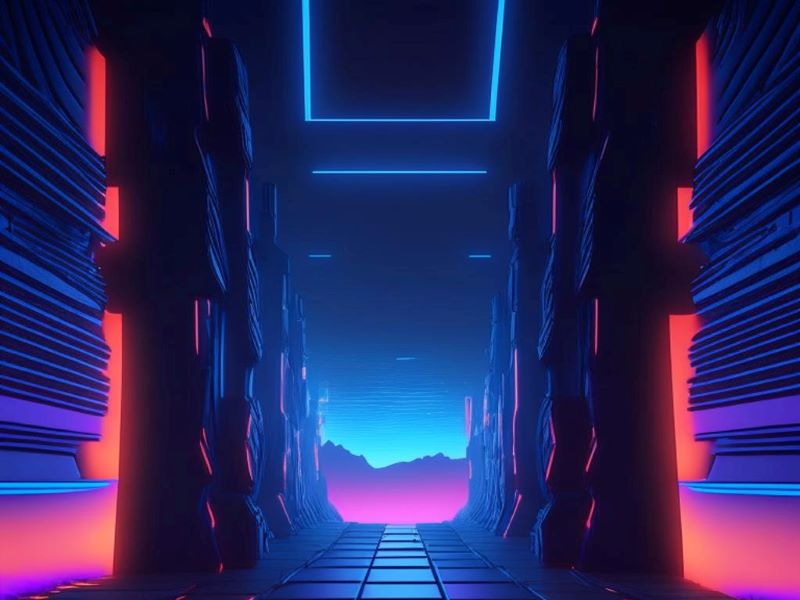
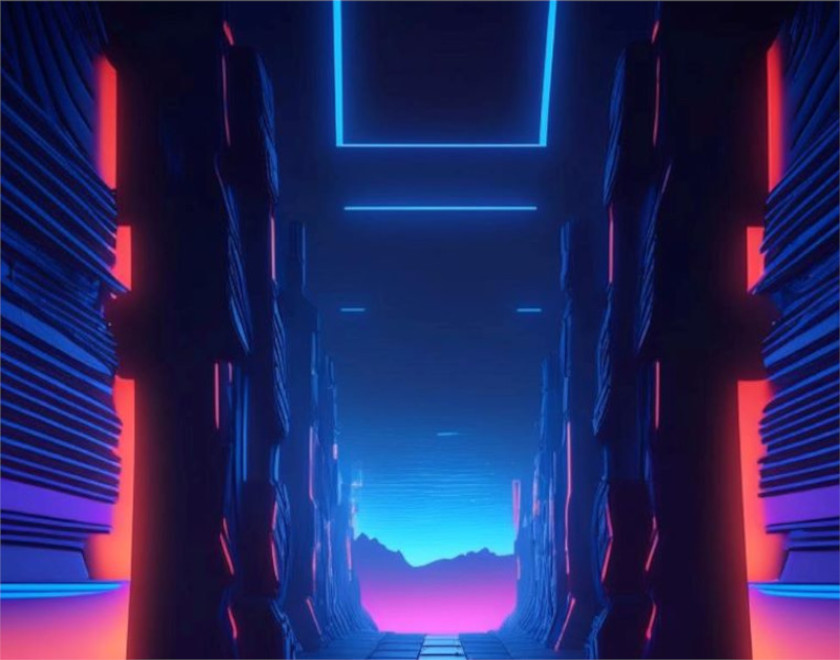
Zmena veľkosti pozadia. #15

diff --git a/minihryexe.py b/minihryexe.py
@@ -5,8 +5,8 @@ white = (255, 255, 255)
 black = (0,0,0)
 
 #SCREEN
-SCREEN_WIDTH = 800
-SCREEN_HEIGHT = 600
+SCREEN_WIDTH = 840
+SCREEN_HEIGHT = 660
 screen = pygame.display.set_mode((SCREEN_WIDTH, SCREEN_HEIGHT))
 
 def get_button():

diff --git a/menuexe.py b/menuexe.py
@@ -5,8 +5,8 @@ white = (255, 255, 255)
 black = (0,0,0)
 
 #SCREEN
-SCREEN_WIDTH = 800
-SCREEN_HEIGHT = 600
+SCREEN_WIDTH = 840
+SCREEN_HEIGHT = 660
 screen = pygame.display.set_mode((SCREEN_WIDTH, SCREEN_HEIGHT))
 
 
